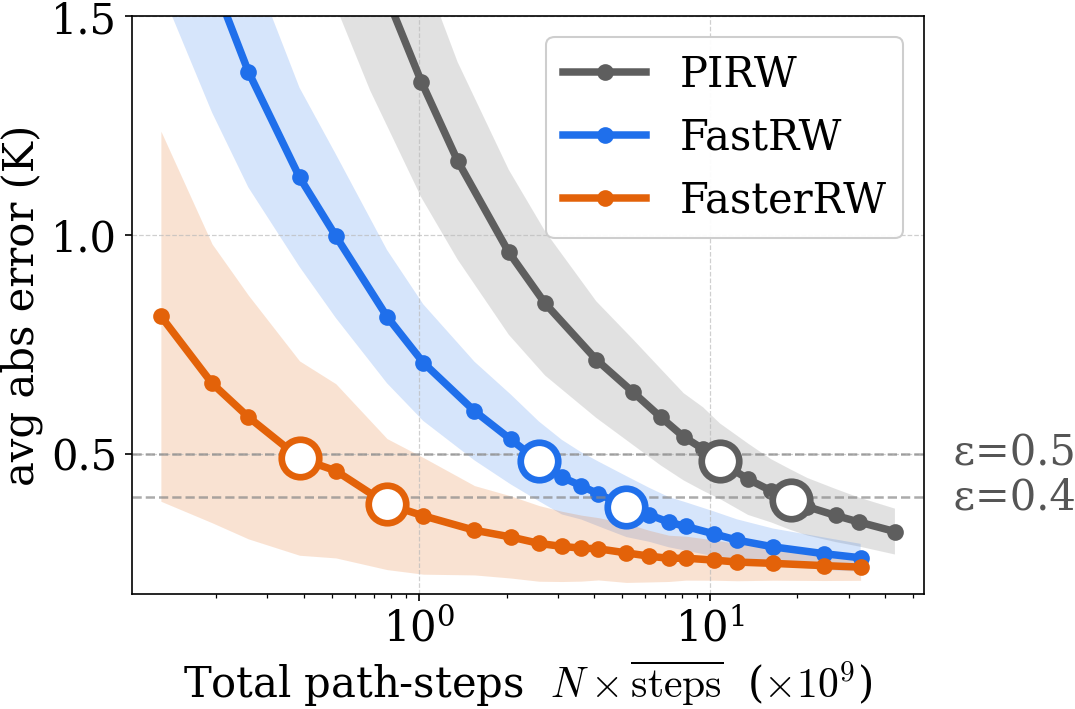
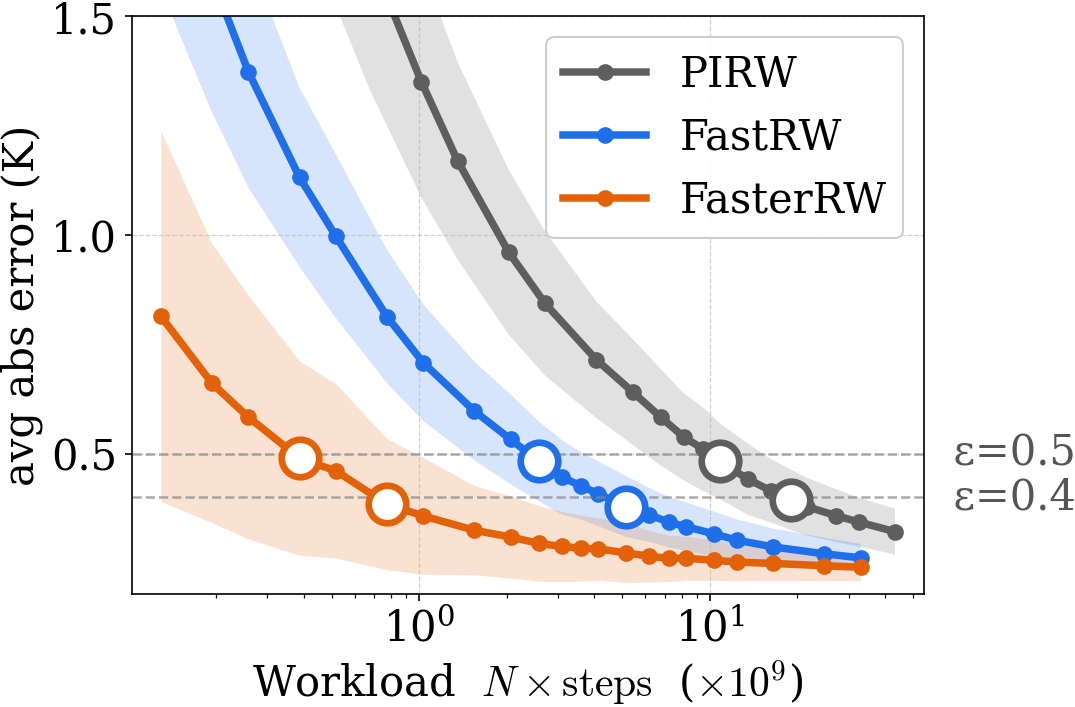
Bootstrap fig: relabel x-axis as Workload N x steps

diff --git a/scripts/plot_bootstrap_curves.py b/scripts/plot_bootstrap_curves.py
@@ -172,7 +172,7 @@ def plot_one_case(case):
     ax.set_ylim(ymin, YMAX)
     ax.yaxis.set_major_locator(MultipleLocator(0.5))
 
-    ax.set_xlabel(r"Total path-steps  $N \times \overline{\mathrm{steps}}$  ($\times 10^9$)",
+    ax.set_xlabel(r"Workload  $N \times \mathrm{steps}$  ($\times 10^9$)",
                   fontsize=FS)
     ax.set_ylabel("avg abs error (K)", fontsize=FS)
     ax.tick_params(axis="both", labelsize=FS)
